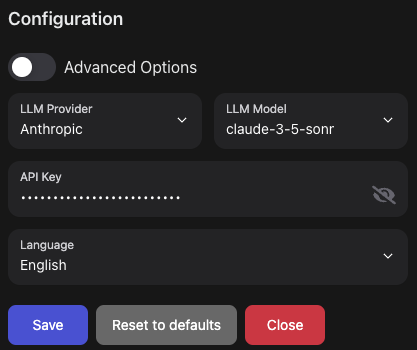
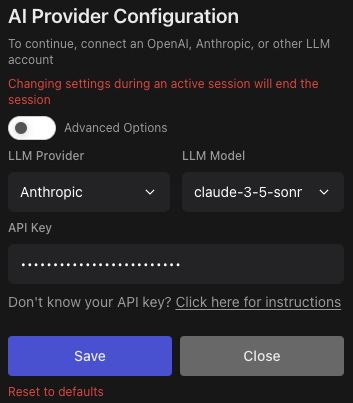
Update docs associated with new UI (#4469)

diff --git a/docs/modules/usage/llms/azure-llms.md b/docs/modules/usage/llms/azure-llms.md
@@ -5,7 +5,7 @@ OpenHands uses LiteLLM to make calls to Azure's chat models. You can find their 
 ## Azure OpenAI Configuration
 
 When running OpenHands, you'll need to set the following environment variable using `-e` in the
-[docker run command](/modules/usage/installation):
+[docker run command](/modules/usage/installation#start-the-app):
 
 ```
 LLM_API_VERSION="<api-version>"              # e.g. "2023-05-15"
@@ -37,7 +37,7 @@ OpenHands uses llama-index for embeddings. You can find their documentation on A
 ### Azure OpenAI Configuration
 
 When running OpenHands, set the following environment variables using `-e` in the
-[docker run command](/modules/usage/installation):
+[docker run command](/modules/usage/installation#start-the-app):
 
 ```
 LLM_EMBEDDING_MODEL="azureopenai"

diff --git a/docs/modules/usage/llms/google-llms.md b/docs/modules/usage/llms/google-llms.md
@@ -16,7 +16,7 @@ If the model is not in the list, toggle `Advanced Options`, and enter it in `Cus
 ## VertexAI - Google Cloud Platform Configs
 
 To use Vertex AI through Google Cloud Platform when running OpenHands, you'll need to set the following environment
-variables using `-e` in the [docker run command](/modules/usage/installation):
+variables using `-e` in the [docker run command](/modules/usage/installation#start-the-app):
 
 ```
 GOOGLE_APPLICATION_CREDENTIALS="<json-dump-of-gcp-service-account-json>"

diff --git a/docs/modules/usage/llms/llms.md b/docs/modules/usage/llms/llms.md
@@ -48,7 +48,7 @@ The following can be set in the OpenHands UI through the Settings:
 - `Base URL` (through `Advanced Settings`)
 
 There are some settings that may be necessary for some LLMs/providers that cannot be set through the UI. Instead, these
-can be set through environment variables passed to the [docker run command](/modules/usage/installation)
+can be set through environment variables passed to the [docker run command](/modules/usage/installation#start-the-app)
 using `-e`:
 
 - `LLM_API_VERSION`
